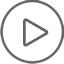
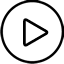
修改图片

Changed region(s): [[0.0, 0.0, 1.0, 1.0], [0.3438, 0.2812, 0.7812, 0.75]]

diff --git a/ReduxTest/app/pages/mic.js b/ReduxTest/app/pages/mic.js
@@ -25,6 +25,7 @@ var maxHeight = Dimensions.get('window').height - Navigator.NavigationBar.Styles
 var scorll = false;
 var auto = false;
 var myImg = require('../img/play.png');
+var voiceImg = require('../img/voice.png');
 var array = new Array();
 
 const propTypes = {
@@ -43,7 +44,8 @@ export class Mic extends Component {
         scorll = false;
         this.state = {
             dataSource: ds.cloneWithRows(data),
-            autoImage: myImg
+            autoImage: myImg,
+            voiceImage: voiceImg
         }
         this._accessFileName();
     }
@@ -61,14 +63,16 @@ export class Mic extends Component {
                         refreshPrompt="Pull down to refresh"/>
                 </View>
                 <View style={style.footer}>
-                    <TouchableOpacity onPress={this.autoPlay.bind(this) }>
+                    <TouchableOpacity onPress={this.autoPlay.bind(this) } style={{ flexDirection: 'row' }}>
                         <Image source={this.state.autoImage } style={style.ImagStyle}/>
+                        <Text style={{ marginTop: 36, marginLeft: 6, fontSize: 16, color: '#000000' }}>auto</Text>
                     </TouchableOpacity>
                     <TouchableWithoutFeedback onPressOut={this._stop.bind(this) } onPressIn={this._startVoice.bind(this) }>
-                        <Image style={{ width: 54, height: 54 }}  source={require('../img/voice.png') }/>
+                        <Image style={{ width: 54, height: 54 }}  source={this.state.voiceImage }/>
                     </TouchableWithoutFeedback>
-                    <TouchableOpacity>
+                    <TouchableOpacity style={{ flexDirection: 'row' }}>
                         <Image source={require('../img/none.png') } style={style.ImagStyle}  />
+                        <Text style={{ marginTop: 36, marginLeft: 6, fontSize: 16, color: '#00000000' }}>auto</Text>
                     </TouchableOpacity>
                 </View>
             </View>
@@ -125,8 +129,9 @@ export class Mic extends Component {
      */
     _startVoice() {
         var _this = this;
+        this.voiceStatus(true);
         RecordAudio.prototype.startRecord(_this.props.ip, (back) => {
-            RecordAudio.prototype.recordMsg("开始录音");
+            // RecordAudio.prototype.recordMsg("开始录音");
         });
     }
 
@@ -135,8 +140,9 @@ export class Mic extends Component {
      */
     _stop() {
         var _this = this;
+        this.voiceStatus(false);
         RecordAudio.prototype.stopRecord((back) => {
-            RecordAudio.prototype.recordMsg("停止录音");
+            // RecordAudio.prototype.recordMsg("停止录音");
             if (back.success == true) {
                 var title = {
                     name: back.name,
@@ -272,6 +278,19 @@ export class Mic extends Component {
             EventListener.trigger("AutoPlayState", auto);
         }
     }
+    /**
+     * 设置录音状态
+     */
+    voiceStatus(bool) {
+        if (bool === true) {
+            voiceImg = require('../img/voice2.png');
+        } else {
+            voiceImg = require('../img/voice.png');
+        }
+        this.setState({
+            voiceImage: voiceImg
+        })
+    }
 }
 
 Mic.propTypes = propTypes;
@@ -313,7 +332,8 @@ const style = StyleSheet.create({
         borderColor: 'red',
         alignItems: 'center',
         backgroundColor: '#999999',
-    }, touch: {
+    },
+    touch: {
         marginLeft: 10,
         marginRight: 10,
         width: 70,

diff --git a/ReduxTest/app/pages/mic_item.js b/ReduxTest/app/pages/mic_item.js
@@ -104,7 +104,7 @@ export class MicItem extends Component {
         var _this = this;
         RecordAudio.prototype.playRecord(value.name, (back) => {
             if (bool !== 1)
-                RecordAudio.prototype.recordMsg(back.name);
+                // RecordAudio.prototype.recordMsg(back.name);
             if (_this.state.auto) {
                 EventListener.trigger("AutoPlayAllRecord", value, rowId, 1);
             }
